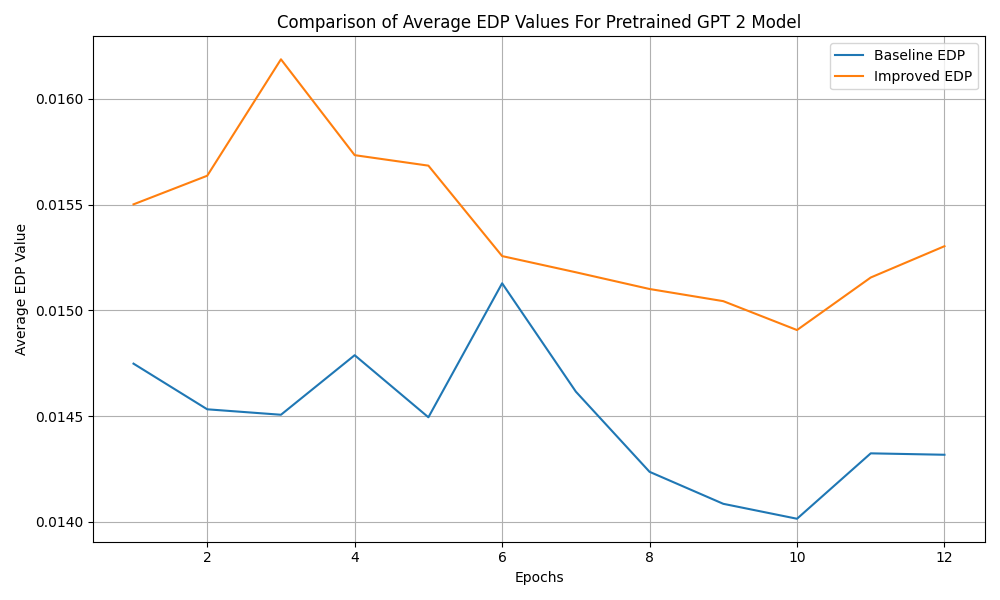
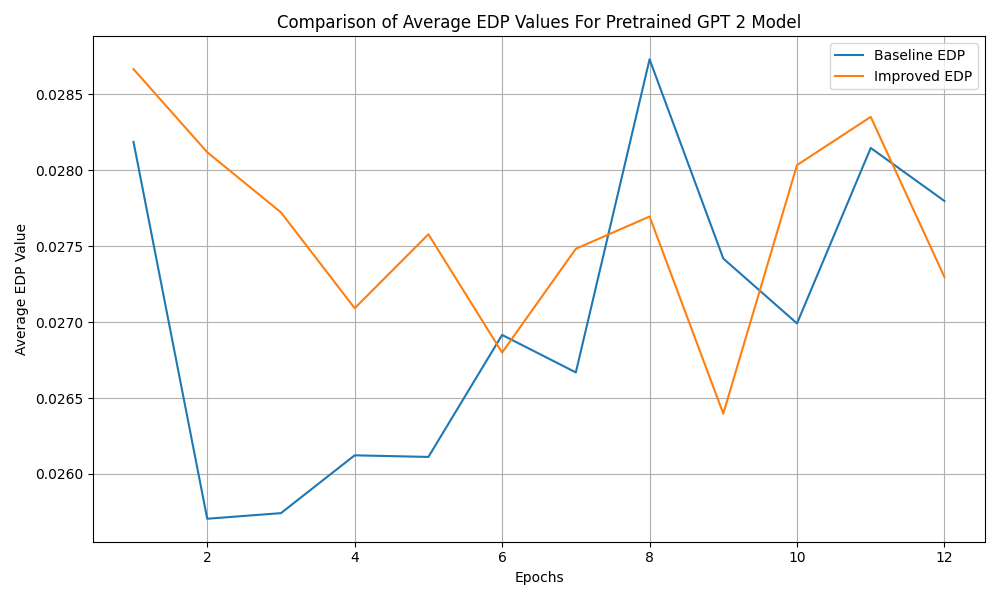
switched to another dataset

diff --git a/RoBERTa_model/plot_roberta_results.py b/RoBERTa_model/plot_roberta_results.py
@@ -1,15 +1,11 @@
 from roberta_baseline import roberta_baseline
 from roberta_improved_edp import roberta_improved_edp
 from util import make_plot
+from datasets import load_dataset
 
 def plot_roberta_results():
-    test_dataset = [
-        "Hello, my name is ChatGPT. How can I assist you today?",
-        "What is the capital of France?",
-        "Explain the theory of relativity.",
-        "How do I bake a chocolate cake?",
-        "What are the benefits of machine learning?"
-    ]
+    dataset = load_dataset('ag_news', split='test[:20]') 
+    test_dataset = [item['text'] for item in dataset]
 
     average_baseline_duration, average_layer_durations, average_edp_values = roberta_baseline(test_dataset)
     average_layer_durations_improved, average_edp_values_improved = roberta_improved_edp(test_dataset)

diff --git a/gpt2_model/plot_gpt_results.py b/gpt2_model/plot_gpt_results.py
@@ -1,15 +1,11 @@
 from gpt2_baseline import gpt2_baseline
 from gpt2_improved_edp import gpt2_improved_edp
 from util import make_plot
+from datasets import load_dataset
 
 def plot_gpt_2_results():
-    test_dataset = [
-        "Hello, my name is ChatGPT. How can I assist you today?",
-        "What is the capital of France?",
-        "Explain the theory of relativity.",
-        "How do I bake a chocolate cake?",
-        "What are the benefits of machine learning?"
-    ]
+    dataset = load_dataset('ag_news', split='test[:20]') 
+    test_dataset = [item['text'] for item in dataset]
 
     average_baseline_duration, average_layer_durations, average_edp_values = gpt2_baseline(test_dataset)
     average_layer_durations_improved, average_edp_values_improved = gpt2_improved_edp(test_dataset)

diff --git a/t5_model/plot_t5_results.py b/t5_model/plot_t5_results.py
@@ -1,16 +1,11 @@
 from t5_baseline import t5_baseline
 from t5_improved_edp import t5_improved_edp
 from util import make_plot
-
+from datasets import load_dataset
 
 def plot_t5_results():
-    test_dataset = [
-        "Hello, my name is ChatGPT. How can I assist you today?",
-        "What is the capital of France?",
-        "Explain the theory of relativity.",
-        "How do I bake a chocolate cake?",
-        "What are the benefits of machine learning?"
-    ]
+    dataset = load_dataset('ag_news', split='test[:20]') 
+    test_dataset = [item['text'] for item in dataset]
 
     average_baseline_duration, average_layer_durations, average_edp_values = t5_baseline(test_dataset)
     average_layer_durations_improved, average_edp_values_improved = t5_improved_edp(test_dataset)
